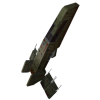
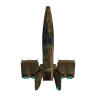
New HWK-290 image and credit in readme Minor fomatting

Changed region(s): [[0.18, 0.0, 0.81, 0.99]]

diff --git a/index.htm b/index.htm
@@ -105,13 +105,19 @@
 <div class="label">Enemy ship's location</div><br>
 <table class="direction_grid">
 	<tr>
-		<td><input type="image" onclick="movement2(DIR_315)" src="img/7.png" /></td><td><input type="image" onclick="movement2(DIR_000)" src="img/0.png" /></td><td><input type="image" onclick="movement2(DIR_045)" src="img/1.png" /></td>
+		<td><input type="image" onclick="movement2(DIR_315)" src="img/7.png" /></td>
+		<td><input type="image" onclick="movement2(DIR_000)" src="img/0.png" /></td>
+		<td><input type="image" onclick="movement2(DIR_045)" src="img/1.png" /></td>
 	</tr>
 	<tr>
-		<td><input type="image" onclick="movement2(DIR_270)" src="img/6.png" /></td><td><img id="ship_image" src="img/tie.png"></td><td><input type="image" onclick="movement2(DIR_090)" src="img/2.png" /></td>
+		<td><input type="image" onclick="movement2(DIR_270)" src="img/6.png" /></td>
+		<td><img id="ship_image" src="img/tie.png"></td>
+		<td><input type="image" onclick="movement2(DIR_090)" src="img/2.png" /></td>
 	</tr>
 	<tr>
-		<td><input type="image" onclick="movement2(DIR_225)" src="img/5.png" /></td><td><input type="image" onclick="movement2(DIR_180)" src="img/4.png" /></td><td><input type="image" onclick="movement2(DIR_135)" src="img/3.png" /></td>
+		<td><input type="image" onclick="movement2(DIR_225)" src="img/5.png" /></td>
+		<td><input type="image" onclick="movement2(DIR_180)" src="img/4.png" /></td>
+		<td><input type="image" onclick="movement2(DIR_135)" src="img/3.png" /></td>
 	</tr>
 </table>
 </div>
